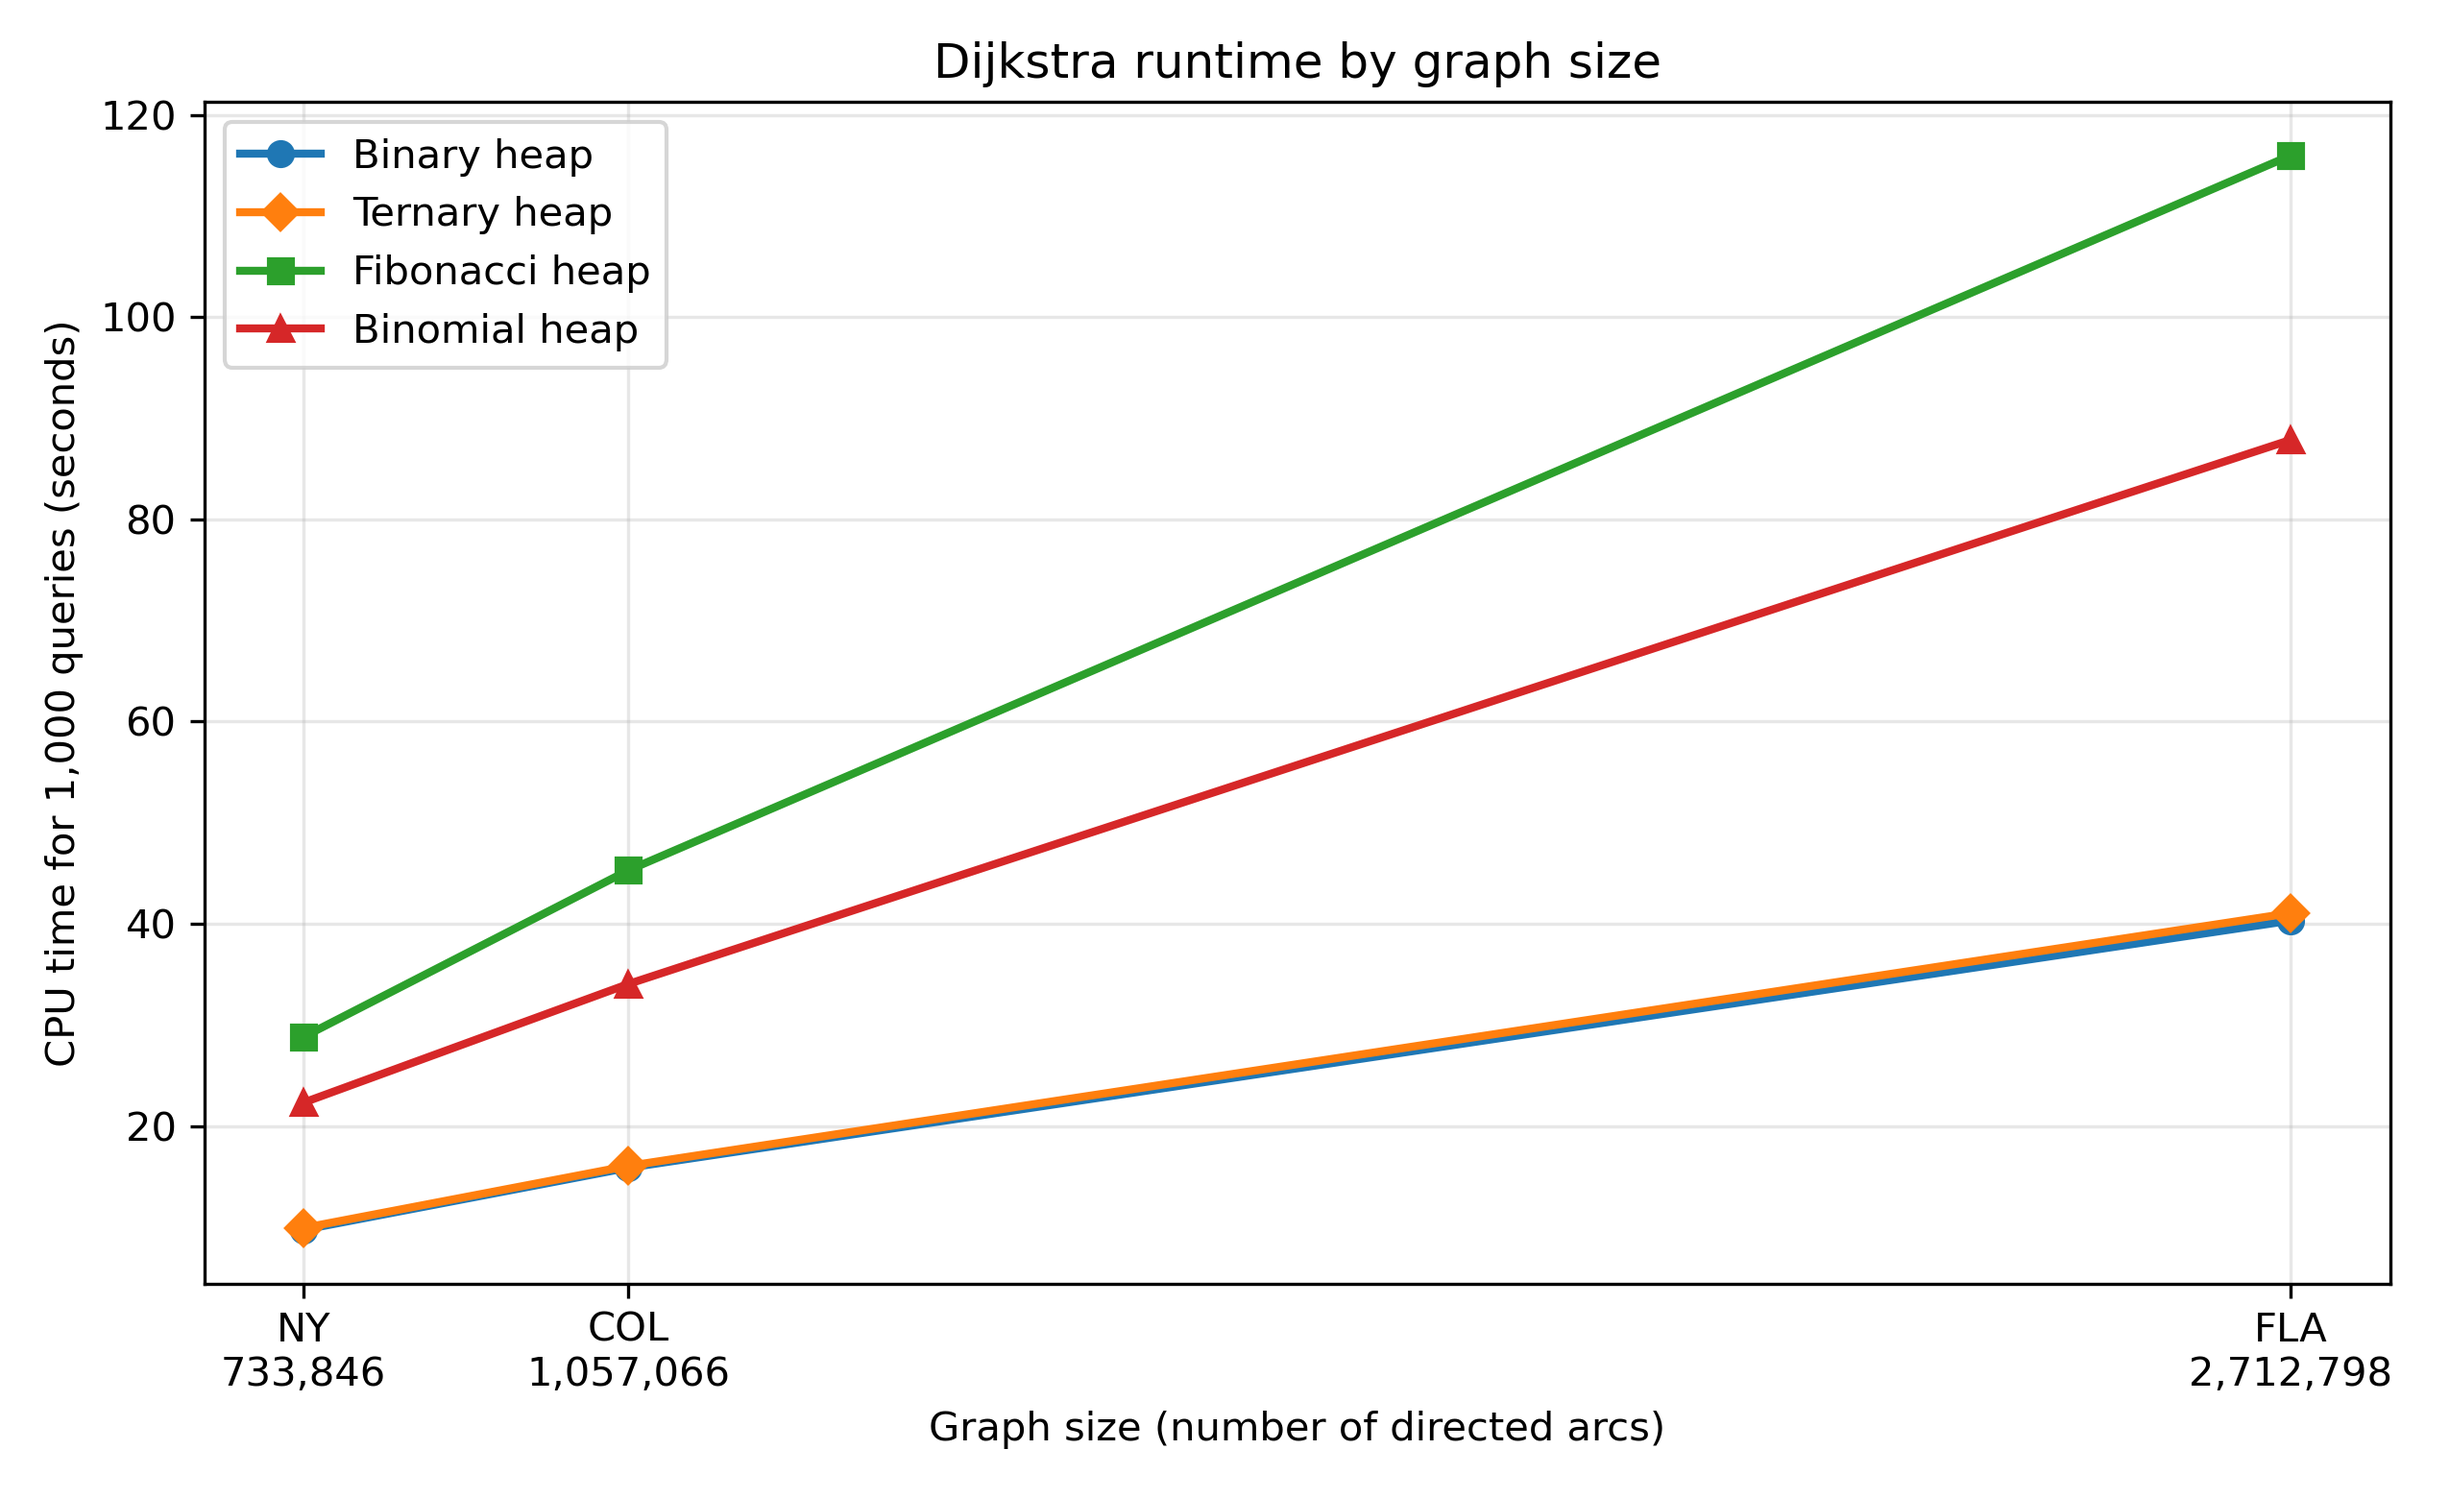
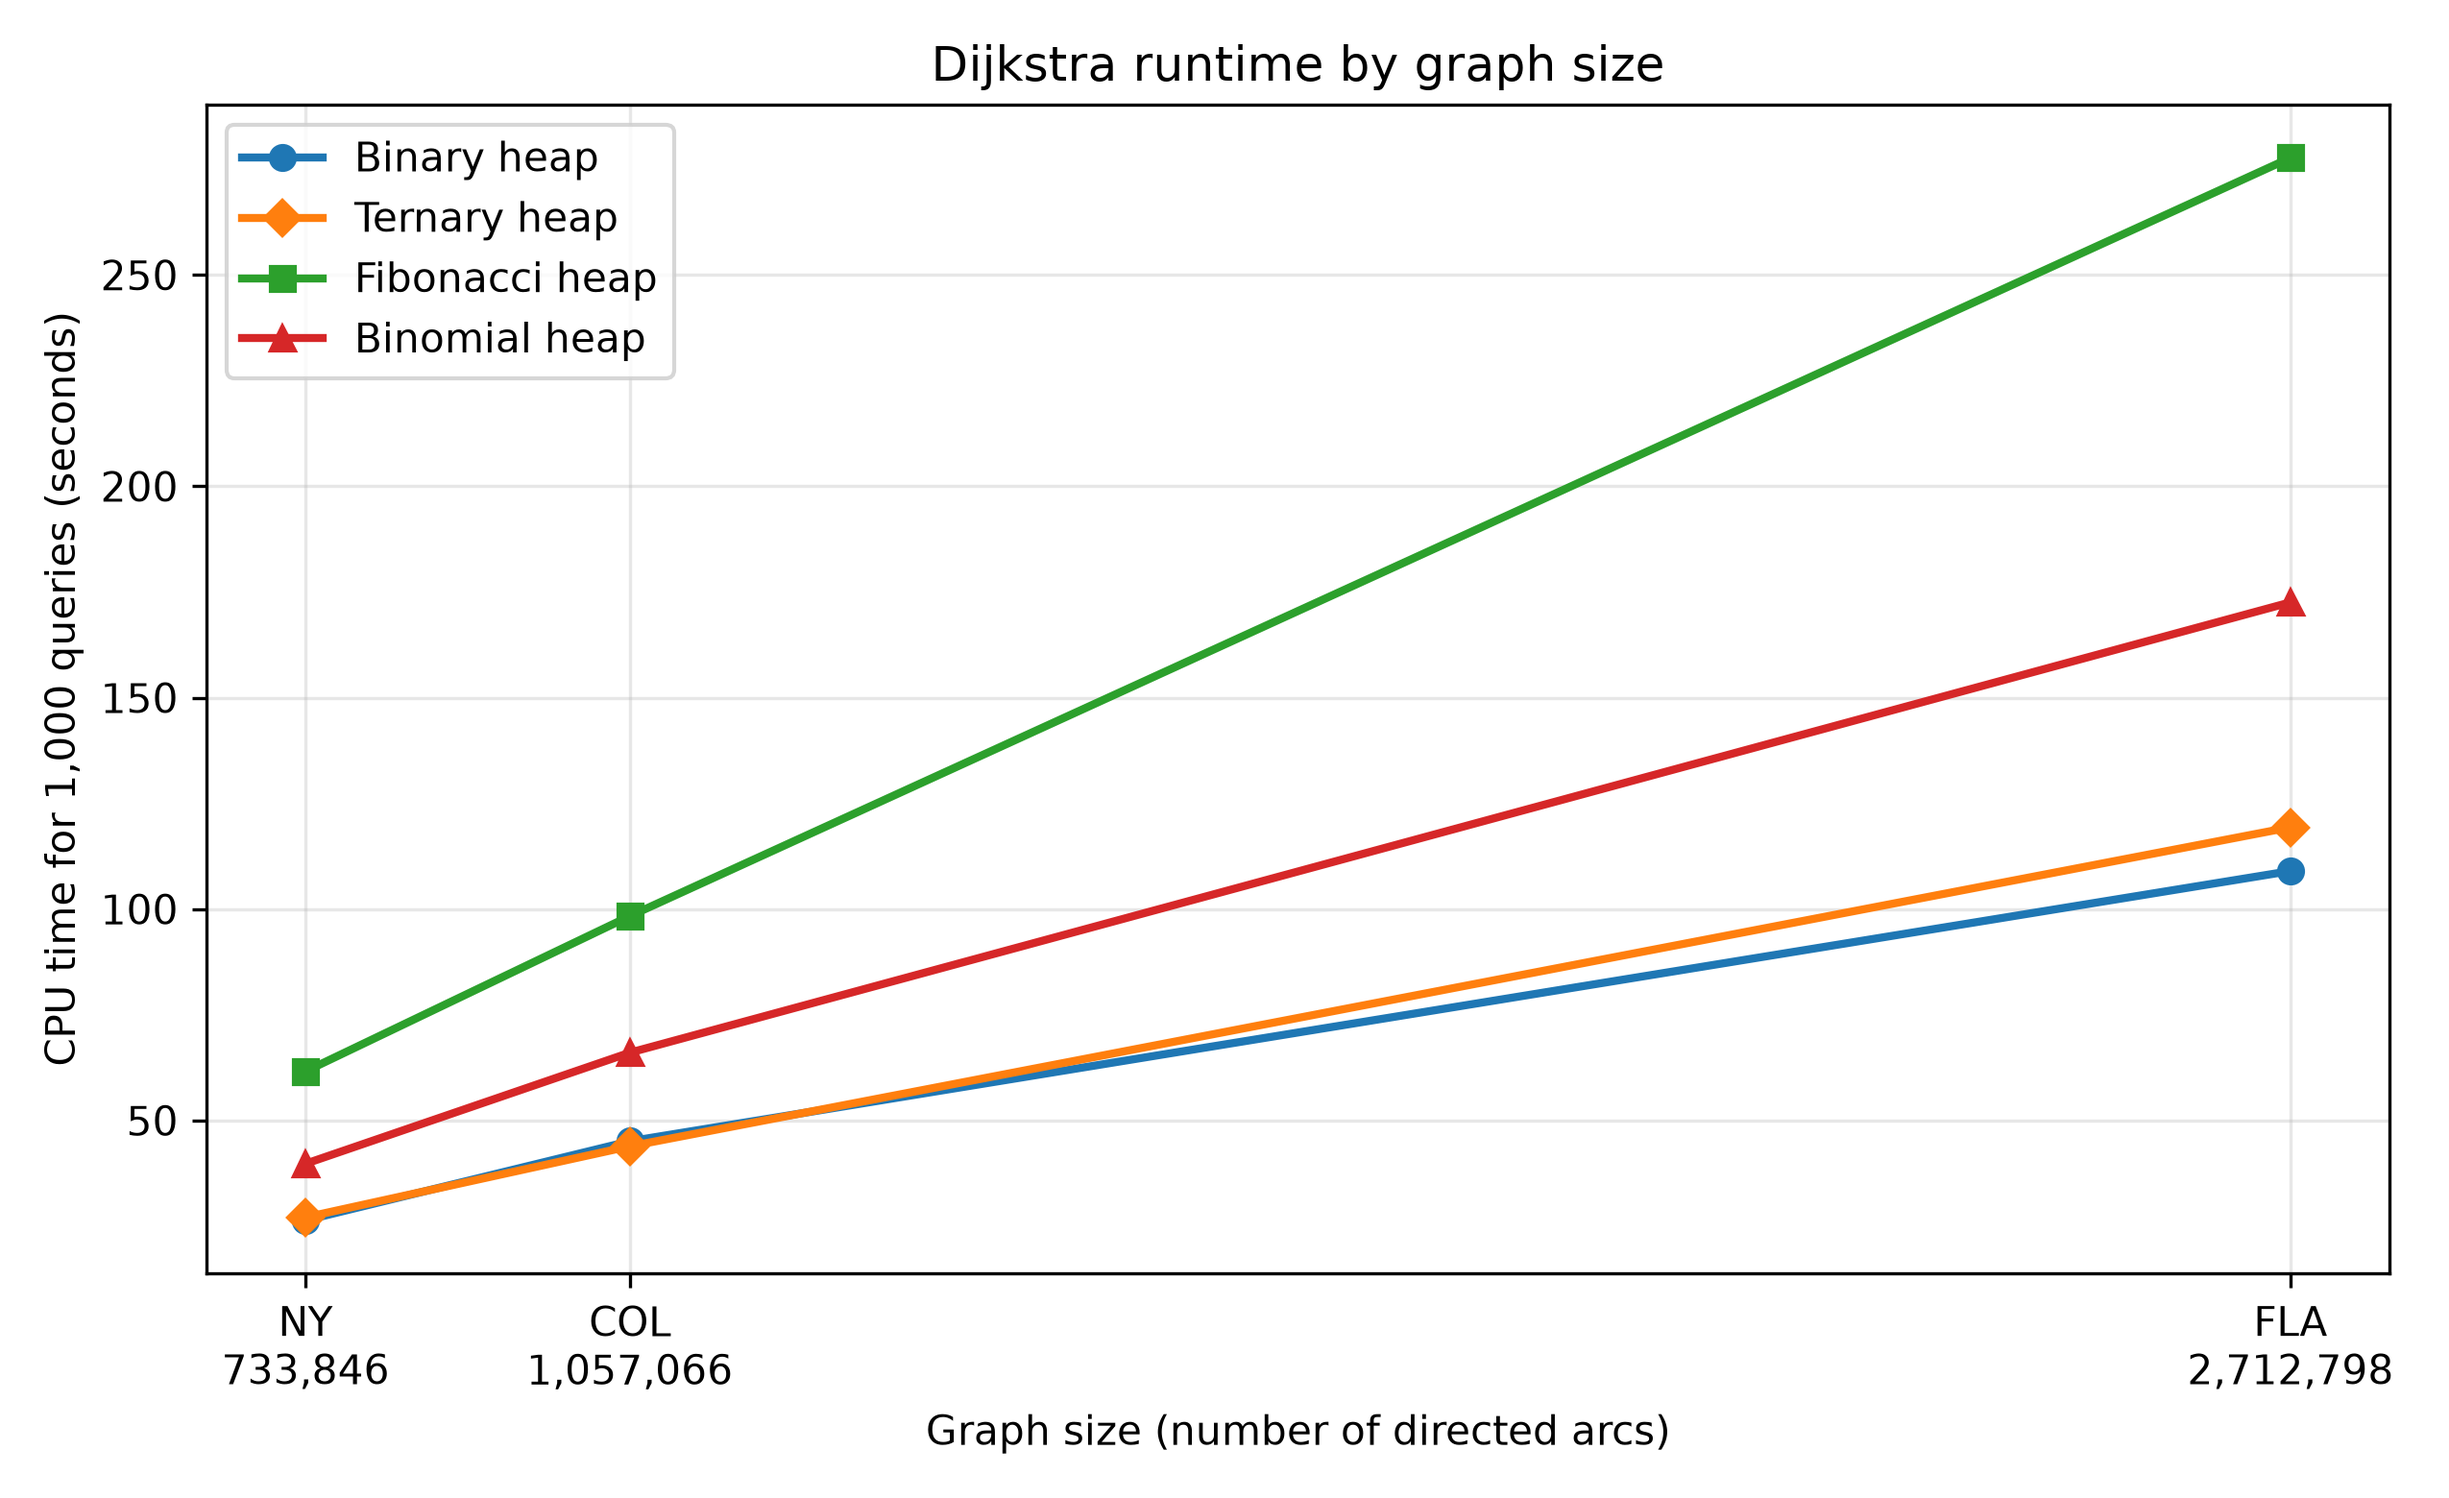
Record optimized three-graph results
- Refresh benchmark_results.csv with the NY/COL/FLA optimized run
  (all 1000/1000 answers matched)
- Regenerate benchmark_runtime.png from the new data
- Add the NY before/after table and note that absolute times from
  the previous CSV were recorded on a different machine
- Document the separate -DCOUNT_HEAP_OPS counting build

diff --git a/README.md b/README.md
@@ -7,7 +7,7 @@ This project compares Dijkstra's shortest-path algorithm with four min-priority-
 - Fibonacci heap
 - Binomial heap
 
-The implementation is written in C style in src/1.c and compiled with g++ in C++17 mode because the source keeps the bits/stdc++.h header.
+The implementation is written in C style in src/1.c and uses only standard C headers, so it builds either with g++ in C++17 mode or with gcc in C11 mode.
 
 ## Directory layout
 
@@ -26,6 +26,10 @@ Run these commands from the project root:
     g++ -std=c++17 -O2 .\src\1.c -o .\build\dijkstra_benchmark.exe
     .\build\dijkstra_benchmark.exe
 
+With MinGW gcc, compile as C11 and enable ANSI stdio for the `%lld` format used by the CSV writer:
+
+    gcc -std=c11 -O2 -D__USE_MINGW_ANSI_STDIO=1 .\src\1.c -o .\build\dijkstra_benchmark.exe
+
 The benchmark runs 1,000 source-target queries on each of NY, COL, and FLA with all four heaps. It writes the timing and high-level work CSV files under results/. Query answers are recorded so the implementations can be checked against one another.
 
 To regenerate the runtime plot from the timing CSV:
@@ -43,11 +47,14 @@ The plot is saved as results/benchmark_runtime.png.
 
 ## Counting heap operations
 
-Run a separate count-only pass with:
+Heap-operation counters are compiled out of the timing build. To collect them, build the separate counting binary and run its count-only pass:
 
-    .\build\dijkstra_benchmark.exe --count-heap-ops
+    g++ -std=c++17 -O2 -DCOUNT_HEAP_OPS .\src\1.c -o .\build\dijkstra_benchmark_count.exe
+    .\build\dijkstra_benchmark_count.exe --count-heap-ops
 
-This checks the answers again and writes results/heap_internal_stats.csv. It does not overwrite the timing CSV files. Counter collection is separate from the timed pass, so its overhead is not included in benchmark_results.csv.
+The timing binary rejects `--count-heap-ops` and asks for the `-DCOUNT_HEAP_OPS` build.
+
+The counting pass checks the answers again and writes results/heap_internal_stats.csv. It does not overwrite the timing CSV files. Counter collection is separate from the timed pass, so its overhead is not included in benchmark_results.csv.
 
 Each row in heap_internal_stats.csv summarizes one heap on one dataset across the 1,000 queries. The columns mean:
 

diff --git a/docs/fibonacci_heap_changes.md b/docs/fibonacci_heap_changes.md
@@ -306,8 +306,38 @@ g++ -std=c++17 -O2 -DCOUNT_HEAP_OPS .\src\1.c -o .\build\dijkstra_benchmark_coun
 
 ### 9.2 优化版（NY / COL / FLA，1000 查询）
 
-> 全量运行完成后补充三张图的实际时间、相对基线的变化，以及对应的
-> `results/benchmark_results.csv` 和 `results/benchmark_runtime.png`。
+同一台机器、同一编译环境（Windows 11，MinGW g++ 8.1.0，`-O2`，单线程）下的
+优化版全量结果：
+
+| 图 | 点数 | 弧数 | Binary | Ternary | Fibonacci | Binomial | 答案一致 |
+|---|---:|---:|---:|---:|---:|---:|---:|
+| NY | 264,346 | 733,846 | 26.373 s | 27.077 s | 61.607 s | 39.764 s | 1000/1000 |
+| COL | 435,666 | 1,057,066 | 45.077 s | 43.880 s | 98.328 s | 66.029 s | 1000/1000 |
+| FLA | 1,070,376 | 2,712,798 | 108.990 s | 119.341 s | 277.698 s | 172.555 s | 1000/1000 |
+
+与 9.1 的同机 NY 基线相比：
+
+| 堆 | 基线 | 优化后 | 变化 |
+|---|---:|---:|---:|
+| Binary | 27.020 s | 26.373 s | −2.4% |
+| Ternary | 28.443 s | 27.077 s | −4.8% |
+| Fibonacci | 68.906 s | 61.607 s | −10.6% |
+| Binomial | 43.290 s | 39.764 s | −8.1% |
+| 合计 | 167.659 s | 154.821 s | −7.7% |
+
+Fibonacci 的降幅最大，与改动一（去掉每次 extract-min 的整表扫描）和改动四
+（堆操作内联）的预期一致；Binary/Ternary 的降幅较小，因为它们的主要开销在
+CSR 扫描和 `dist[]` 访问上，堆本身的操作不是瓶颈。
+
+关于绝对值：仓库中原有的 `results/benchmark_results.csv` 记录为
+NY 9.752 s、COL 15.880 s、FLA 40.315 s，而同一份改动前代码在本机 NY 实测
+27.020 s，两者相差约 2.8 倍，说明原数据不是在本机（或不是在同一负载下）测得的。
+跨机器的绝对时间不可比，本报告只使用同机基线做前后对比。COL 和 FLA 没有
+保留改动前的同机基线，因此表中只列优化后的绝对值，不计算相对变化。
+
+对应的数据文件为 `results/benchmark_results.csv`、`results/benchmark_queries.csv`、
+`results/benchmark_operations.csv`，图由 `scripts/plot_benchmark.py` 生成到
+`results/benchmark_runtime.png`。
 
 ---
 
